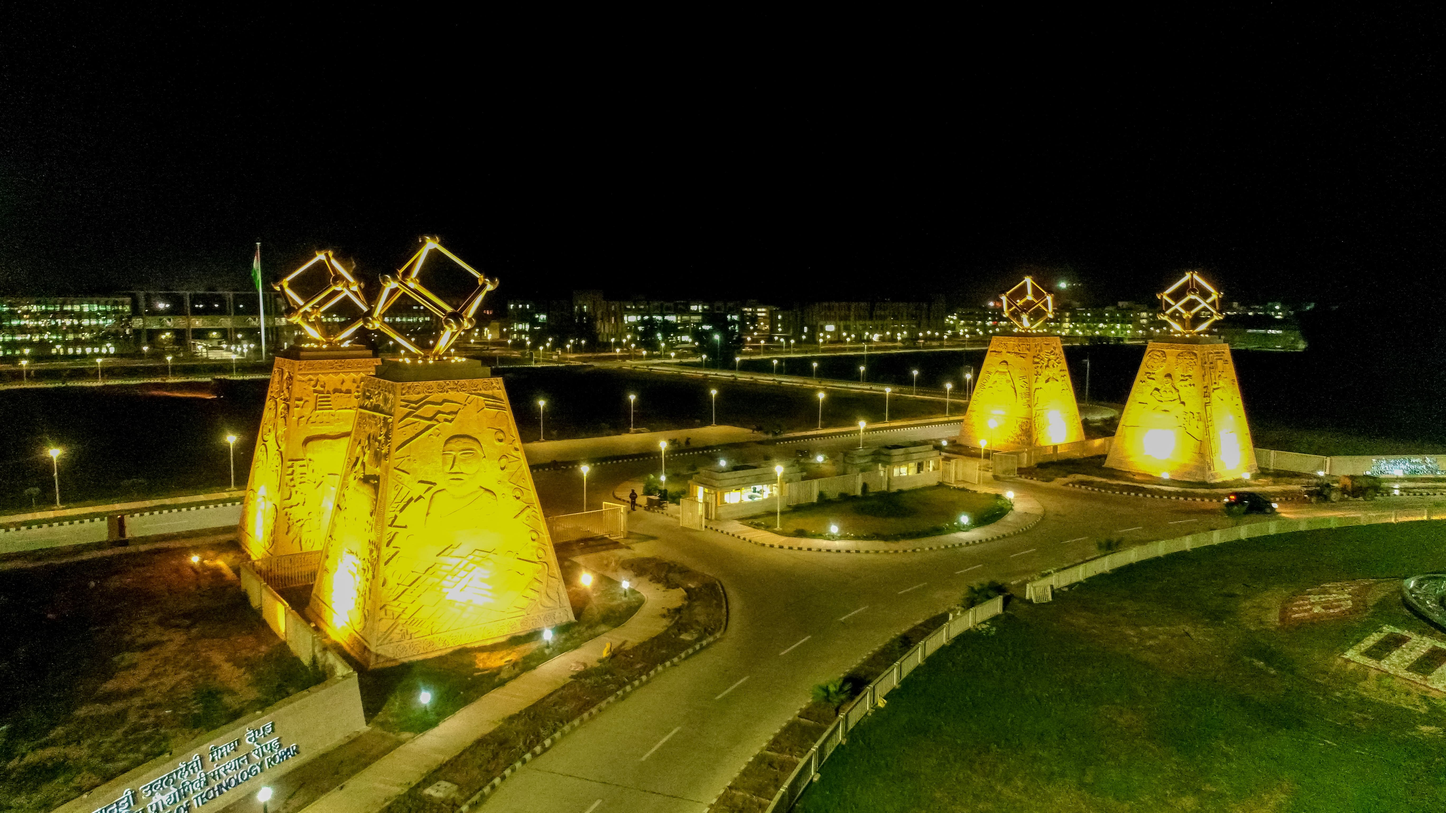
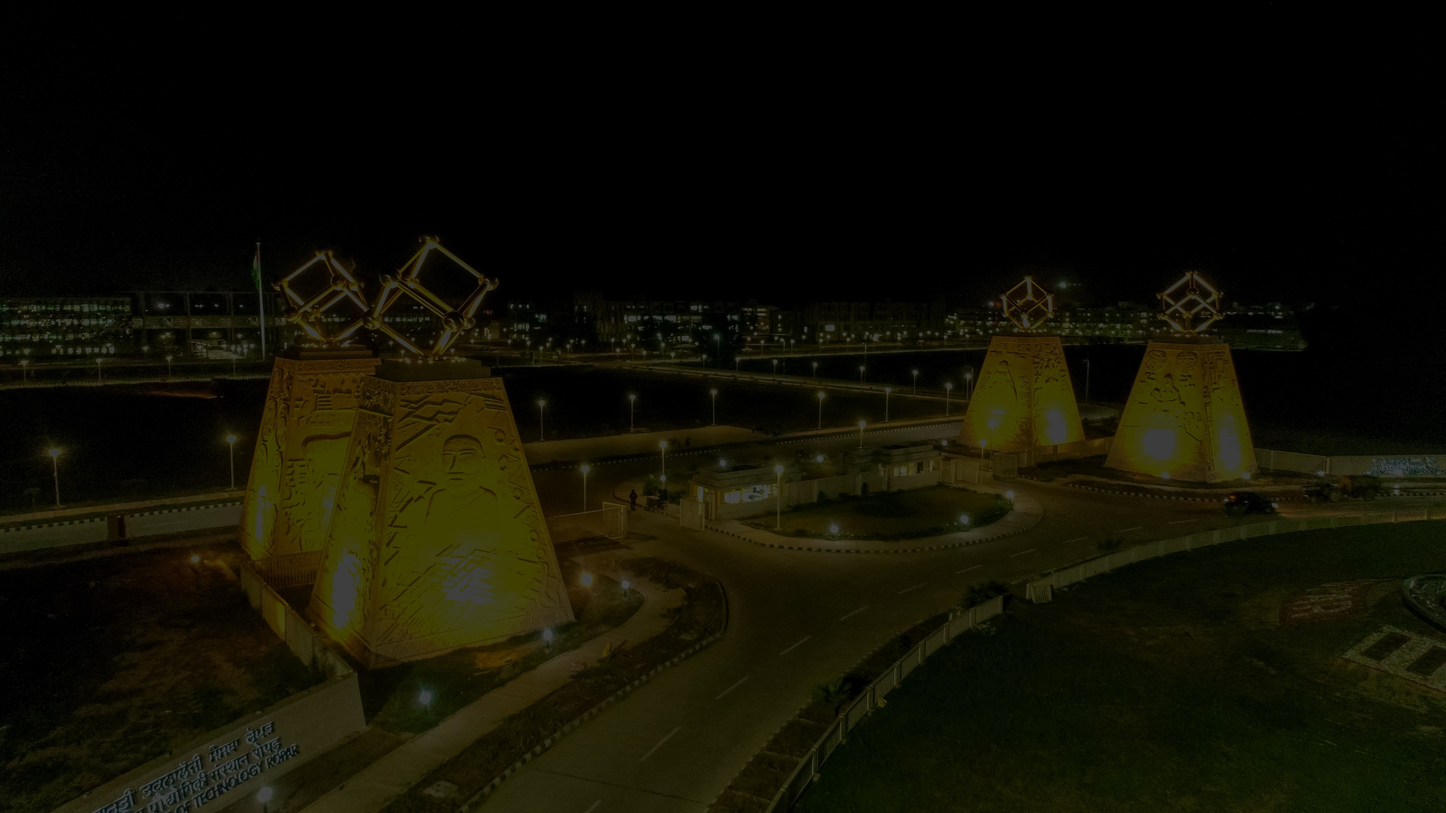
Complete this thing

diff --git a/pages/guest_entry.js b/pages/guest_entry.js
@@ -1,11 +1,42 @@
 import Head from "next/head";
+import axios from "axios";
+import { toast } from "react-toastify";
+import { useRouter } from "next/router";
 
 export default function GuestEntry(){
+  const router = useRouter();
+
+  function handleForm(e){
+    e.preventDefault();
+    let form = document.getElementById("form");
+    let formData = new FormData(form);
+    let data = {};
+    formData.forEach((value, key) => {
+      data[key] = value;
+    });
+    axios.post("http://localhost:5000/guest_entry", data).then(res=>{
+        toast.success("Guest entry successful", {theme:"dark"});
+        setTimeout(()=>router.push("/"), 2000);
+    }
+    ).catch(err=>toast.error("Guest entry failed", {theme:"dark"}));
+  }
   return (
     <main>
       <Head>
         <title>Guest Entry | EZFlow</title>
       </Head>
+      <header className="w-full p-4 h-full" style={{minHeight:"100vh"}}>
+        <h2 className="font-fine text-xl mt-10"><span className="hover:underline cursor-pointer" onClick={()=>{router.push("/")}}>&lt; Go Back</span></h2>
+        <h1 className="text-5xl font-bold my-4">Guest Entry</h1>
+        <form id="form">
+          <input type="text" name="name" placeholder="Name" className="py-2 px-4 rounded-md border w-full text-left capitalize bg-transparent my-2"/>
+          <input type="text" name="phone" placeholder="Phone" className="py-2 px-4 rounded-md border w-full text-left capitalize bg-transparent my-2"/>
+          <input type="text" name="address" placeholder="Address" className="py-2 px-4 rounded-md border w-full text-left capitalize bg-transparent my-2"/>
+          <input type="text" name="purpose" placeholder="Purpose of visit" className="py-2 px-4 rounded-md border w-full text-left capitalize bg-transparent my-2"/>
+          <input type="submit" onClick={handleForm} className="py-2 px-4 rounded-md border text-center capitalize bg-green-500 border-green-500 hover:bg-green-700 hover:border-green-700 cursor-pointer my-2"/>
+        </form>
+        
+      </header>
     </main>
   )
 }

diff --git a/pages/index.js b/pages/index.js
@@ -12,9 +12,13 @@ export default function Home() {
         <h1 className="text-5xl font-bold my-4">EZFlow</h1>
         <h2 className="text-xl font-thin my-2">Seamless Entry Management for Students of IIT Ropar</h2>
         <div className="w-full h-full flex">
-          <button className="flex-1 bg-green-500 m-10 text-2xl rounded-xl hover:bg-green-800 hover:translate-y-3" onClick={()=>{router.push("/student_entry")}}>Student Entry <span className="font-thin"><br/>(ID Card Required)</span></button>
-          <button className="flex-1 bg-green-500 m-10 text-2xl rounded-xl hover:bg-green-800 hover:translate-y-3" onClick={()=>{router.push("/guest_entry")}}>Guest Entry</button>
-        </div>
+          <div className="flex-1 flex justify-center items-center">
+            <button className="bg-green-500 m-10 text-4xl rounded-xl hover:bg-green-800 hover:translate-y-3 p-16" style={{width:"450px", height:"300px"}} onClick={()=>{router.push("/student_entry")}}>Student Entry <span className="font-thin"><br/>(ID Card Required)</span></button>
+          {/* </div>
+          <div className="flex-1 flex justify-center items-center"> */}
+          <button className="bg-green-500 m-10 text-4xl rounded-xl hover:bg-green-800 hover:translate-y-3 p-16" style={{width:"450px", height:"300px"}} onClick={()=>{router.push("/guest_entry")}}>Guest Entry</button>
+          </div>
+          </div>
       </header>
     </main>
   )

diff --git a/pages/student_entry.js b/pages/student_entry.js
@@ -3,8 +3,7 @@ import Head from "next/head";
 import { useRouter } from "next/router";
 import Webcam from "react-webcam";
 import axios from "axios";
-import { ToastContainer, toast } from "react-toastify";
-import 'react-toastify/dist/ReactToastify.css'
+import { toast } from "react-toastify";
 
 function dataURItoBlob(dataURI) {
   const byteString = atob(dataURI.split(',')[1]);
@@ -44,7 +43,7 @@ export default function StudentEntry(){
             toast.success(resp.data, {
               theme: "dark"
             })
-            setTimeout(()=>router.push("/"), 5000);
+            setTimeout(()=>router.push("/"), 2000);
           })
       }else{
         document.getElementById("status").innerText = response.data
@@ -54,7 +53,7 @@ export default function StudentEntry(){
       // Handle errors
       console.log(error);
     });
-  }, []);
+  }, [webcamRef]);
 
   useEffect(()=>{
     if (intervalId) {
@@ -65,7 +64,6 @@ export default function StudentEntry(){
 
   return (
     <main>
-      {/* <ToastContainer /> */}
       <Head>
         <title>Student Entry | EZFlow</title>
       </Head>
@@ -89,7 +87,6 @@ export default function StudentEntry(){
             screenshotFormat="image/jpeg"
           />
         </div>
-        <img src="" alt="" id="test" />
       </header>
     </main>
   )

diff --git a/styles/globals.css b/styles/globals.css
@@ -20,4 +20,8 @@ body {
       rgb(var(--background-end-rgb))
     )
     rgb(var(--background-start-rgb));
+  background-image: url("/iitrpr.jpg");
+  background-repeat: no-repeat;
+  background-size: cover;
+  background-position: center;
 }

diff --git a/pages/_app.js b/pages/_app.js
@@ -1,5 +1,6 @@
 import '@/styles/globals.css'
 import { ToastContainer } from 'react-toastify'
+import 'react-toastify/dist/ReactToastify.css'
 
 export default function App({ Component, pageProps }) {
   return <>

diff --git a/README.md b/README.md
@@ -1,40 +1,11 @@
-This is a [Next.js](https://nextjs.org/) project bootstrapped with [`create-next-app`](https://github.com/vercel/next.js/tree/canary/packages/create-next-app).
+This is a Next.js project bootstrapped with `create-next-app`, with its backend built with Flask.
 
 ## Getting Started
+- Clone the repository
+- Install all the required npm libraries by using `npm install`.
+- Install all the required python libraries by using `pip install -r backend/requirements.txt`.
+- To run the frontend, run `npm build` and then `npm start`.
+- To run the backend, open the terminal in the `backend` folder and run `python app.py`.
 
-First, run the development server:
-
-```bash
-npm run dev
-# or
-yarn dev
-# or
-pnpm dev
-# or
-bun dev
-```
-
-Open [http://localhost:3000](http://localhost:3000) with your browser to see the result.
-
-You can start editing the page by modifying `pages/index.js`. The page auto-updates as you edit the file.
-
-[API routes](https://nextjs.org/docs/api-routes/introduction) can be accessed on [http://localhost:3000/api/hello](http://localhost:3000/api/hello). This endpoint can be edited in `pages/api/hello.js`.
-
-The `pages/api` directory is mapped to `/api/*`. Files in this directory are treated as [API routes](https://nextjs.org/docs/api-routes/introduction) instead of React pages.
-
-This project uses [`next/font`](https://nextjs.org/docs/basic-features/font-optimization) to automatically optimize and load Inter, a custom Google Font.
-
-## Learn More
-
-To learn more about Next.js, take a look at the following resources:
-
-- [Next.js Documentation](https://nextjs.org/docs) - learn about Next.js features and API.
-- [Learn Next.js](https://nextjs.org/learn) - an interactive Next.js tutorial.
-
-You can check out [the Next.js GitHub repository](https://github.com/vercel/next.js/) - your feedback and contributions are welcome!
-
-## Deploy on Vercel
-
-The easiest way to deploy your Next.js app is to use the [Vercel Platform](https://vercel.com/new?utm_medium=default-template&filter=next.js&utm_source=create-next-app&utm_campaign=create-next-app-readme) from the creators of Next.js.
-
-Check out our [Next.js deployment documentation](https://nextjs.org/docs/deployment) for more details.
+## Credits
+This was made by Nalin Angrish and Arpit Goel with some help from other students at IIT Ropar
